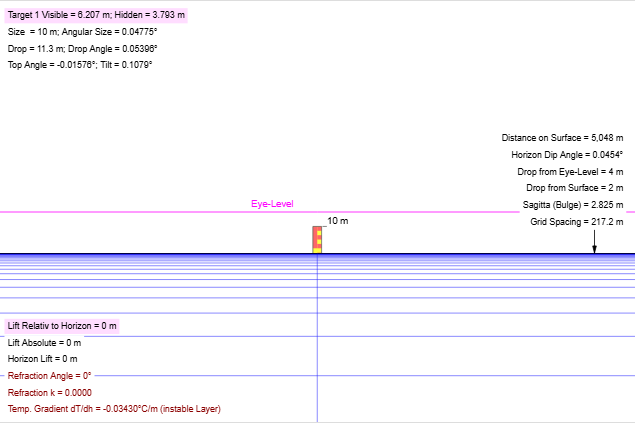
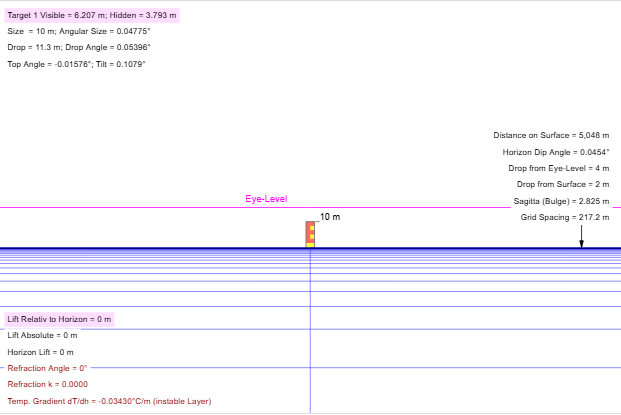
css: mobile-first redesign of earth-drop-calc + shared design-system
Shared lib (core/tokens.css): add a spacing scale (--space-1..6), a touch-target
token (--tap-min: 44px) and document the shared breakpoints (phone base / <480 /
>=768 / >=1100). shared.css becomes the mobile-first component layer: .ScrollCanvas
no longer forces 600px on phones (the main culprit behind edc's horizontal scroll),
only from >=768px up.

earth-drop-calc: flip calculator.css from desktop-first to mobile-first. Base =
phone (full-bleed single column, compact padding, no card chrome); >=768px brings
back the centered 760px card; >=1200px is the two-column graph|data layout (raised
from 1100 — the 4-col data tables need ~540px of column to show every value). Tabs
are now inline-block with real tap padding, slider track/thumb 28px, slider cells
shrink on phones so rows fit a 360px screen. The read-only 4-col data tables can't
reflow via CSS, so they scroll within their .Scroller on phones while the page fits.

fed: already mobile-first — light polish. Bottom bar sections were flex-shrink:0
with no overflow, so the luminary controls were cut off and unreachable on phones;
make the whole bar horizontally scrollable (like the top bar) at <=480. Adopt the
shared --tap-min token on layer toggles.

CSS-only, 0 new deps. Verified visually at 375/768/1100/1280 (edc) and 375 (fed);
characterize 9/9 (edc canvas baselines regenerated — layout changed canvas width,
content unchanged), build OK, lint clean.

diff --git a/apps/earth-drop-calc/styles/calculator.css b/apps/earth-drop-calc/styles/calculator.css
@@ -9,45 +9,54 @@
  * anything shared with fed-wabis-v2 in shared.css instead.
  * ============================================================================= */
 
-/* ---- CalcApp container ----
-   Narrow screens: single readable column (max 760px). Wide screens: the card
-   grows to 1400px and the body splits into two columns via .calc-grid below. */
+/* ---- CalcApp container (mobile-first) ----
+   Base = phone: full-bleed single column, no card chrome, compact padding.
+   >=768px: centered 760px card with border/shadow.
+   >=1100px: two-column (graph+controls | data+reference). */
 .CalcApp {
-  max-width: 760px;
-  margin: 16px auto;
-  padding: 16px 20px 24px;
-  background: #fff;
-  border: 1px solid #c8c8c8;
-  border-radius: 5px;
-  box-shadow: 0 1px 4px rgba(0, 0, 0, 0.1);
+  margin: 0;
+  padding: var(--space-3) var(--space-3) var(--space-6);
+  background: var(--color-surface);
   box-sizing: border-box;
 }
 .CalcApp h1.CalcTitle {
-  font-size: 175%;
+  font-size: 1.4rem;
   font-weight: bold;
   line-height: 1.2;
-  margin: 0 0 0.6em;
+  margin: 0 0 var(--space-3);
   border-bottom: 2px solid var(--color-accent-strong);
-  padding-bottom: 0.3em;
+  padding-bottom: var(--space-1);
 }
 .CalcApp .Scroller { width: 100%; }
-@media (max-width: 800px) {
-  .CalcApp { margin: 0; border: none; border-radius: 0; box-shadow: none; }
+
+@media (min-width: 768px) {
+  .CalcApp {
+    max-width: 760px;
+    margin: var(--space-4) auto;
+    padding: var(--space-4) var(--space-5) var(--space-6);
+    border: 1px solid var(--color-border);
+    border-radius: var(--radius-sm);
+    box-shadow: var(--shadow-sm);
+  }
+  .CalcApp h1.CalcTitle { font-size: 175%; margin-bottom: 0.6em; padding-bottom: 0.3em; }
 }
 
-/* ---- Wide-screen two-column layout ----
-   Default (mobile-first): one column, natural stacking order.
-   >=1100px: graph + controls on the left, read-only data + reference images on
-   the right, so wide monitors stop wasting horizontal space. */
+/* ---- Two-column layout (desktop) ----
+   Mobile/tablet: one column, natural stacking order. >=1200px: graph + controls
+   on the left, read-only data + reference images on the right. (1200, not 1100:
+   the 4-col data tables need ~540px of column to show every value un-clipped.) */
 .calc-grid { display: grid; grid-template-columns: 1fr; gap: 0 28px; }
-@media (min-width: 1100px) {
+@media (min-width: 1200px) {
   .CalcApp { max-width: 1400px; }
-  .calc-grid { grid-template-columns: minmax(0, 1.15fr) minmax(0, 1fr); align-items: start; }
+  .calc-grid { grid-template-columns: minmax(0, 1.1fr) minmax(0, 1fr); align-items: start; }
   /* Keep the graph + its controls in view while the data column scrolls. */
-  .calc-left { position: sticky; top: 16px; }
-  /* The read-only data tables are 4-col (Label Value Label Value); their default
-     150px inputs are too wide for one column. Trim them (display-only fields). */
-  .calc-right table.ControlPanel td.Value input[type="text"] { width: 110px; }
+  .calc-left { position: sticky; top: var(--space-4); }
+  /* In two-column mode the data tables share the row with the graph, so tighten
+     them further (95px inputs + slimmer cell padding) to fit the right column
+     without clipping. ID-scoped to win over the 110px single-column rule. */
+  .calc-right table.ControlPanel td { padding: 4px 5px; }
+  #TargetDataPanel td.Value input[type="text"],
+  #HorizonDataPanel td.Value input[type="text"] { width: 95px; }
 }
 
 /* ---- Tab Selectors ---- */
@@ -67,10 +76,10 @@ ul.TabSelectors.Top { padding-bottom: 0; }
 ul.TabSelectors.Bottom { padding-top: 0; }
 ul.TabSelectors li {
   background: none;
-  display: inline;
-  margin: 0 0.2em;
-  padding: 0.2em 0.5em;
-  line-height: 2;
+  display: inline-block;       /* inline-block so padding makes a real tap target */
+  margin: 0 0.15em 0.25em;
+  padding: 0.45em 0.7em;        /* bigger touch area; wraps cleanly on phones */
+  line-height: 1.4;
   border-left: 1px solid #ddd;
   color: #ddd;
   white-space: nowrap;
@@ -164,12 +173,23 @@ table.ControlPanel.InputWidth185 td.Value input[type="text"] { width: 185px !imp
 table.ControlPanel.SliderMinWidth250 td.Slider { min-width: 250px !important; }
 table.ControlPanel.SliderMinWidth300 td.Slider { min-width: 300px !important; }
 
-/* ---- Slider widget (native <input type="range">) ---- */
+/* Phone: drop the slider min-widths so each row fits a ~360px screen instead of
+   forcing horizontal scroll. The slider still takes the remaining row width. */
+@media (max-width: 767px) {
+  table.ControlPanel.Slider.NCols2 td.Slider,
+  table.ControlPanel.Slider.NCols4 td.Slider,
+  table.ControlPanel.SliderMinWidth250 td.Slider,
+  table.ControlPanel.SliderMinWidth300 td.Slider { min-width: 90px !important; }
+}
+
+/* ---- Slider widget (native <input type="range">) ----
+   28px track for a comfortable touch target (thumb matches). */
 div.Slider {
   position: relative;
-  height: 25px;
+  height: 28px;
   background: #EEE;
   border: 1px solid #ddd;
+  border-radius: var(--radius-sm);
   touch-action: none;
 }
 div.Slider input[type="range"] {
@@ -188,7 +208,7 @@ div.Slider input[type="range"]::-webkit-slider-thumb {
   -webkit-appearance: none;
   appearance: none;
   width: 50px;
-  height: 25px;
+  height: 28px;
   background: #CC0000;
   color: #FFF;
   border: none;
@@ -197,7 +217,7 @@ div.Slider input[type="range"]::-webkit-slider-thumb {
 }
 div.Slider input[type="range"]::-moz-range-thumb {
   width: 50px;
-  height: 25px;
+  height: 28px;
   background: #CC0000;
   border: none;
   border-radius: 3px;
@@ -215,6 +235,13 @@ div.Slider.ReadOnly { opacity: 0.5; pointer-events: none; }
 .bpic { width: 100%; }
 .bpic img { width: 100%; }
 .bpic .imgd { width: 100%; font-size: 13px; color: #555; text-align: center; }
+
+/* ---- Read-only data panels (Target / Horizon) ----
+   Compact value inputs (display-only). These are 4-col tables that can't reflow
+   cleanly via CSS, so on phones they scroll horizontally within their .Scroller
+   while the rest of the page stays single-column and fits the viewport. */
+#TargetDataPanel td.Value input[type="text"],
+#HorizonDataPanel td.Value input[type="text"] { width: 110px; }
 
 /* ---- ID-specific overrides ---- */
 #UnitsPanel { border: 2px solid #fa6; }

diff --git a/packages/jsgraph-vendor/src/core/tokens.css b/packages/jsgraph-vendor/src/core/tokens.css
@@ -34,4 +34,24 @@
   --shadow-sm: 0 2px 6px rgba(0, 0, 0, 0.12);
   --shadow-md: 0 4px 16px rgba(0, 0, 0, 0.18);
   --shadow-lg: 0 8px 32px rgba(0, 0, 0, 0.28);
+
+  /* Spacing scale */
+  --space-1: 4px;
+  --space-2: 8px;
+  --space-3: 12px;
+  --space-4: 16px;
+  --space-5: 20px;
+  --space-6: 24px;
+
+  /* Minimum comfortable touch target (WCAG ~44px) */
+  --tap-min: 44px;
 }
+
+/* -----------------------------------------------------------------------------
+ * Breakpoints — mobile-first. CSS media queries can't read custom properties,
+ * so these are the agreed values both apps use (don't invent new ones):
+ *   phone    = base styles (no query)
+ *   <480px   = fine phone tweaks
+ *   >=768px  = tablet
+ *   >=1100px = desktop / two-column
+ * --------------------------------------------------------------------------- */

diff --git a/packages/jsgraph-vendor/src/core/shared.css b/packages/jsgraph-vendor/src/core/shared.css
@@ -1,15 +1,23 @@
 /* =============================================================================
- * shared.css — Shared UI component styles used by earth-drop-calc.
- *   (Reset, tabs, control panels, sliders, scroller, wiki utilities.)
+ * shared.css — Shared, mobile-first component layer (loaded by both apps after
+ *   tokens.css). Reset, tabs, control panels, sliders, scroller, wiki utilities.
+ *   Tokens/breakpoints come from tokens.css. App-specific styling lives in the
+ *   app's own stylesheet; this file only holds what both apps can share.
  * ============================================================================= */
 
 /* ---- Reset minimal ---- */
 *, *::before, *::after { box-sizing: border-box; }
 body { margin: 0; font-family: system-ui, -apple-system, sans-serif; }
 
-/* ---- Scroller (for panel overflow) ---- */
+/* ---- Scroller (for panel overflow) ----
+   Mobile-first: panels fit the viewport (no forced min-width → no horizontal
+   scroll on phones). From tablet up, keep a min-width so multi-column control
+   panels don't collapse awkwardly; .Scroller still scrolls if they overflow. */
 .Scroller { overflow-x: auto; }
-.ScrollCanvas { min-width: 600px; }
+.ScrollCanvas { min-width: 0; }
+@media (min-width: 768px) {
+  .ScrollCanvas { min-width: 600px; }
+}
 
 /* ---- Wiki utility classes (needed by vendor scripts) ---- */
 .Wiki div.Paragraph { margin: 8px 0; }

diff --git a/apps/fed-wabis-v2/styles/styles.css b/apps/fed-wabis-v2/styles/styles.css
@@ -568,7 +568,7 @@ body {
   cursor: pointer;
   transition: color 0.15s, background 0.15s, border-color 0.15s;
   white-space: nowrap;
-  min-width: 44px;
+  min-width: var(--tap-min);   /* shared touch-target token */
 }
 
 .layer-toggle:hover {
@@ -742,6 +742,13 @@ body {
   }
 
   #top-bar { gap: 4px; padding: 0 6px; overflow-x: auto; }
+
+  /* Bottom bar: its sections are flex-shrink:0 and there are four of them, so on a
+     phone the rightmost (luminaries) would be cut off. Scroll the whole bar (like
+     the top bar) so every control is reachable. Bar height is unchanged, so the
+     canvas alignment is unaffected. */
+  #bottom-bar { justify-content: flex-start; gap: 6px; overflow-x: auto; scrollbar-width: none; }
+  #bottom-bar::-webkit-scrollbar { display: none; }
 
   #sun-moon-strip { display: none; }
 

diff --git a/README.md b/README.md
@@ -27,18 +27,26 @@ apps/
 
 Una sola cascada, de lo compartido a lo específico. Cada app la carga en este orden:
 
-| Capa           | Archivo                                         | Dueño      | Qué                                                                                                                   |
-|----------------|-------------------------------------------------|------------|-----------------------------------------------------------------------------------------------------------------------|
-| 1. Tokens      | `jsgraph-vendor/src/core/tokens.css`            | compartido | **Única fuente** de colores de marca, neutros, radios y sombras (`--color-*`, `--nav-*`, `--radius-*`, `--shadow-*`). |
-| 2. Base vendor | `jsgraph-vendor/src/styles.css`                 | vendor     | Estilos del framework wabis (DOM generado: paneles, tabs). Solo lo usa edc. No tocar salvo parche.                    |
-| 3. Componentes | `jsgraph-vendor/src/core/{shared,appShell}.css` | compartido | Tweaks de componentes comunes a ambas apps + barra de navegación.                                                     |
-| 4. App         | `apps/<app>/styles/*.css`                       | por app    | Chrome y overrides propios. **Última capa, gana.**                                                                    |
+| Capa           | Archivo                                         | Dueño      | Qué                                                                                                                                                |
+|----------------|-------------------------------------------------|------------|----------------------------------------------------------------------------------------------------------------------------------------------------|
+| 1. Tokens      | `jsgraph-vendor/src/core/tokens.css`            | compartido | **Única fuente** de colores, neutros, radios, sombras, **espaciado** (`--space-1..6`) y **touch target** (`--tap-min`). Documenta los breakpoints. |
+| 2. Base vendor | `jsgraph-vendor/src/styles.css`                 | vendor     | Estilos del framework wabis (DOM generado: paneles, tabs). Solo lo usa edc. No tocar salvo parche.                                                 |
+| 3. Componentes | `jsgraph-vendor/src/core/{shared,appShell}.css` | compartido | Tweaks de componentes comunes a ambas apps + barra de navegación.                                                                                  |
+| 4. App         | `apps/<app>/styles/*.css`                       | por app    | Chrome y overrides propios. **Última capa, gana.**                                                                                                 |
 
 - edc carga 1–4 vía `js/main.js` (imports ESM, en orden). fed carga tokens vía `@import`
   al inicio de su `styles/styles.css` y los componentes vía `main-v2.js`.
 - Ambas apps usan `styles/` (no `css/`). Los colores de marca (`#ff8033`…) viven **solo**
   en `tokens.css`; el resto referencia `var(--…)`. Colores semánticos de una sola app
   (resaltados de campos, cabeceras de panel) se quedan locales en su `*.css`.
+
+**Mobile-first.** Estilos base = teléfono; se mejoran con `min-width`. Breakpoints
+compartidos (las media queries no leen custom properties, son constantes acordadas):
+teléfono = base · ajustes finos `<480` · tablet `≥768` · desktop `≥1100` (edc usa `≥1200`
+para su grid de 2 columnas, donde las tablas de datos de 4 columnas ya caben sin recortar).
+Objetivos táctiles vía `--tap-min` (44px); las tablas de datos de solo-lectura de edc
+(4 col., DOM generado, no reflowables por CSS) hacen scroll horizontal dentro de su
+`.Scroller` en teléfono mientras el resto de la página cabe en el viewport.
 
 ## Principio de dependencias (DIP)
 